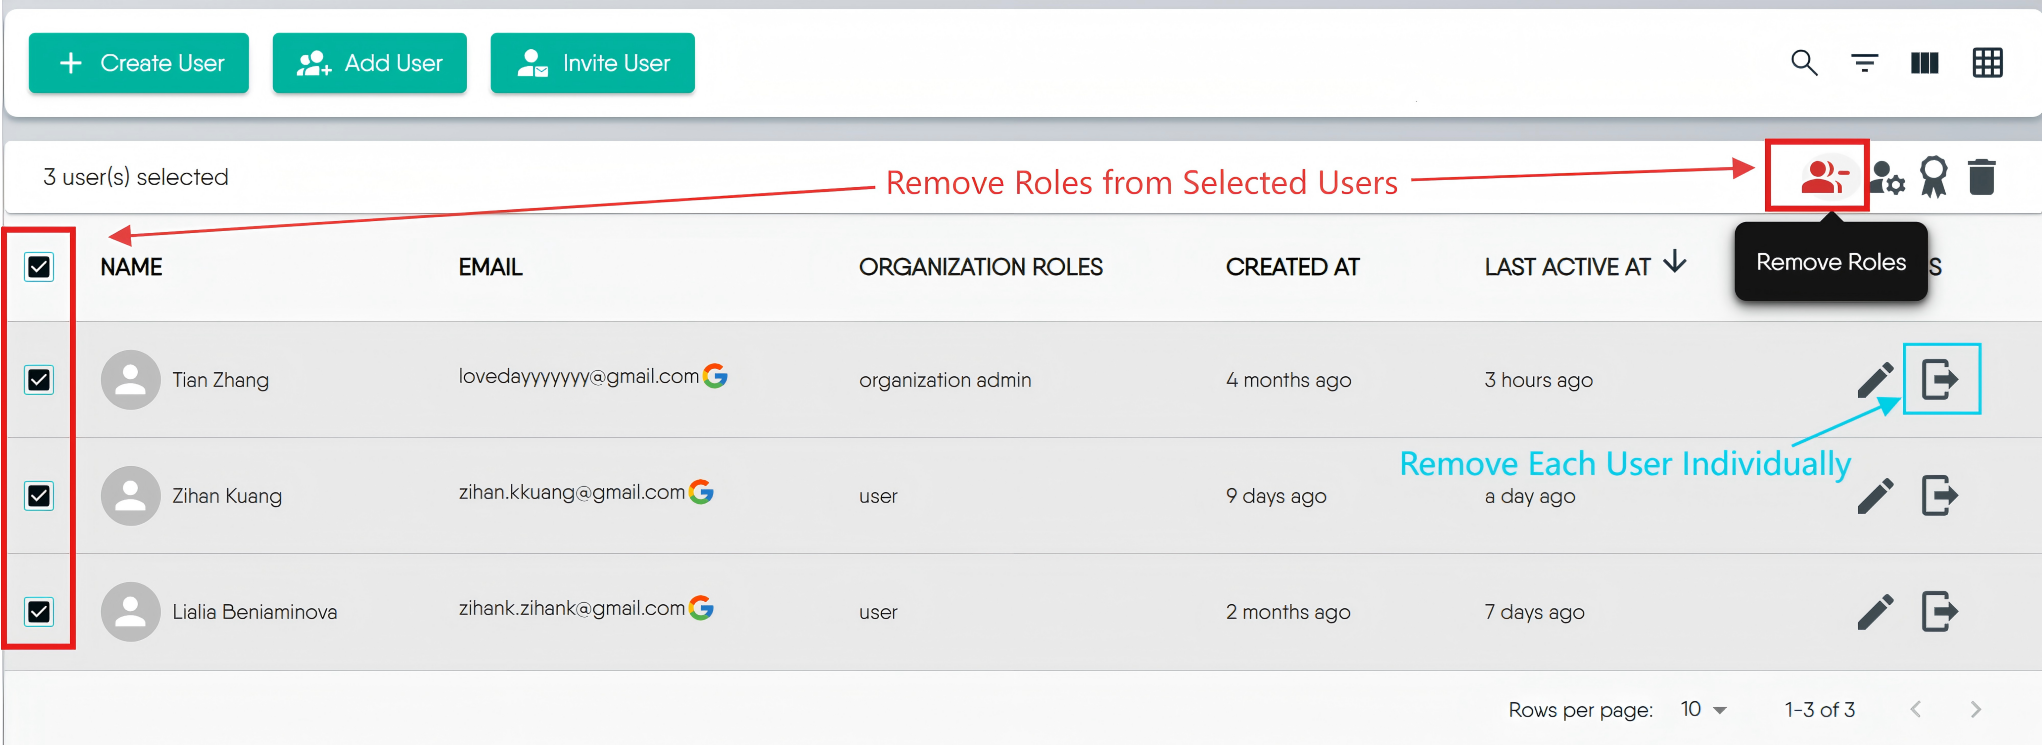
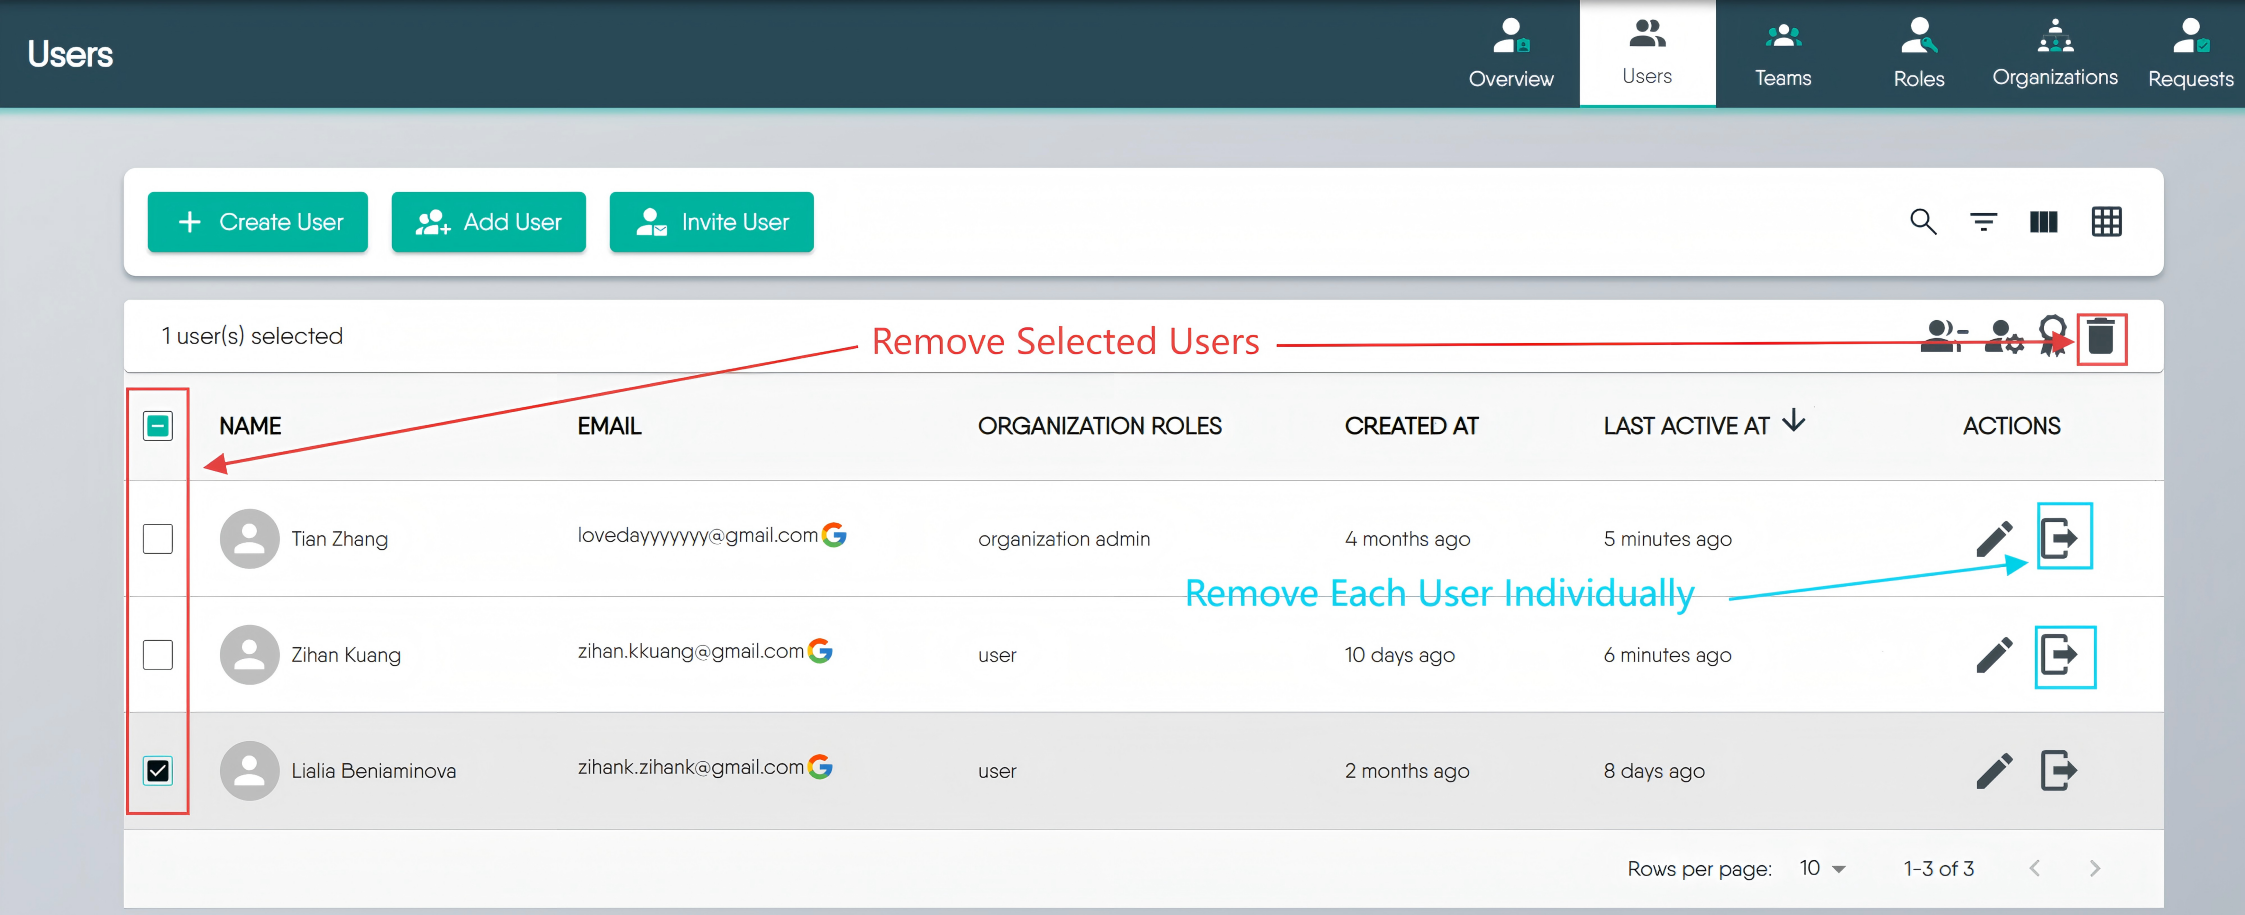
Update

diff --git a/content/en/cloud/identity/users/user-management.md b/content/en/cloud/identity/users/user-management.md
@@ -21,7 +21,7 @@ Seamlessly initiate new user accounts, ensuring a smooth onboarding process. Spe
 Only Provider Admins and Organization Admins can create users. For more information, see [Roles](/cloud/security/roles).
 {{< /alert >}}
 
-## Add User to Organization / Remove User
+## Add User / Remove User
 
 This section explains how to add existing Layer5 Cloud users to one of your organizations or remove them.
 
@@ -80,7 +80,7 @@ To invite multiple users to your organization at once, or to allow open sign-ups
 * **Cross-Organizational Collaboration:** To make it easy for collaborators from other organizations or external partners to join.
 
 ### How to Get the Invitation Link
-1. Go to your Organization's settings page in Layer5 Cloud.
+1. Go to your Organization's settings page.
 2. Choose the target organization, then click its edit button.
 3. Click the "Copy invite link to join your org" option.
 
